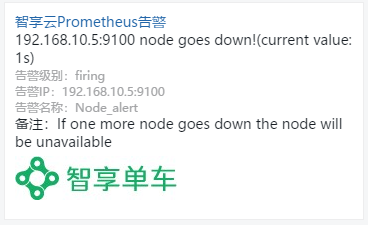
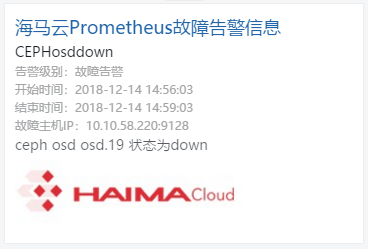
增加自定义配置选项

Changed region(s): [[0.0299, 0.0622, 0.9565, 0.6533], [0.0299, 0.6844, 0.6576, 0.9022]]

diff --git a/controllers/default.go b/controllers/default.go
@@ -9,6 +9,7 @@ import (
 	"log"
 	"net/http"
 	"strconv"
+	"time"
 )
 
 type MainController struct {
@@ -17,9 +18,9 @@ type MainController struct {
 
 type Labels struct{
 	Alertname string `json:"alertname"`
+	Instance string `json:"instance"`
 }
 type Annotations struct{
-	Message string `json:"message"`
 	Description string `json:"description"`
 	Summary string `json:"summary"`
 }
@@ -28,7 +29,6 @@ type Alerts struct {
 	Annotations Annotations `json:"annotations"`
 	StartsAt string `json:"startsAt"`
 	EndsAt string `json:"endsAt"`
-	GeneratorURL string `json:"generatorUrl"`
 }
 type Prometheus struct {
 	Status string
@@ -63,28 +63,37 @@ func (c *MainController) PrometheusAlert() {
 	log.Println(c.Data["json"])
 	c.ServeJSON()
 }
-
+func GetCSTtime(date string)(string)  {
+	T1:=date[0:10]
+	T2:=date[11:19]
+	T3:=T1+" "+T2
+	tm2, _ := time.Parse("2006-01-02 15:04:05", T3)
+	h, _ := time.ParseDuration("-1h")
+	tm3:=tm2.Add(-8*h)
+	tm:=tm3.Format("2006-01-02 15:04:05")
+	return tm
+}
 func PostToDingDingP(message Prometheus)(string)  {
 	Ddurl:=beego.AppConfig.String("ddurl")
 	Title:=beego.AppConfig.String("title")
 	Alerturl:=beego.AppConfig.String("alerturl")
 	Logourl:=beego.AppConfig.String("logourl")
-	Alertmessage:=""
-	switch {
-	case message.Alerts[0].Annotations.Message!="":
-		Alertmessage=message.Alerts[0].Annotations.Message
-	case message.Alerts[0].Annotations.Description!="":
-		Alertmessage=message.Alerts[0].Annotations.Description
-	case message.Alerts[0].Annotations.Summary!="":
-		Alertmessage=message.Alerts[0].Annotations.Summary
+	text:=""
+    titleend:=""
+	if message.Status=="resolved" {
+		text="## ["+Title+"云Prometheus故障恢复信息]("+Alerturl+")\n\n"+"#### "+message.Alerts[0].Labels.Alertname+"\n\n"+"###### 告警级别：故障恢复\n\n"+"###### 开始时间："+GetCSTtime(message.Alerts[0].StartsAt)+"\n\n"+"###### 结束时间："+GetCSTtime(message.Alerts[0].EndsAt)+"\n\n"+"###### 故障主机IP："+message.Alerts[0].Labels.Instance+"\n\n"+"##### "+message.Alerts[0].Annotations.Summary+"\n\n"+"!["+Title+"]("+Logourl+")"
+		titleend="云故障恢复信息"
+	}else {
+		text="## ["+Title+"云Prometheus故障告警信息]("+Alerturl+")\n\n"+"#### "+message.Alerts[0].Labels.Alertname+"\n\n"+"###### 告警级别：故障告警\n\n"+"###### 开始时间："+GetCSTtime(message.Alerts[0].StartsAt)+"\n\n"+"###### 结束时间："+GetCSTtime(message.Alerts[0].EndsAt)+"\n\n"+"###### 故障主机IP："+message.Alerts[0].Labels.Instance+"\n\n"+"##### "+message.Alerts[0].Annotations.Description+"\n\n"+"!["+Title+"]("+Logourl+")"
+		titleend="云故障告警信息"
 	}
-	text:="## ["+Title+"云告警Prometheus平台告警信息]("+Alerturl+")\n\n"+"#### "+message.Alerts[0].Labels.Alertname+"\n\n"+"###### 告警级别："+message.Status+"\n\n"+"###### 开始时间："+message.Alerts[0].StartsAt+"\n\n"+"###### 结束时间："+message.Alerts[0].EndsAt+"\n\n"+"`"+Alertmessage+"`\n\n"+"!["+Title+"]("+Logourl+")"
+
 	u := DDMessage{
 		Msgtype:"markdown",
 		Markdown: struct {
 			Title string `json:"title"`
 			Text  string `json:"text"`
-		}{Title: Title+"云告警平台告警信息", Text: text},
+		}{Title: Title+titleend, Text: text},
 		At: struct {
 			AtMobiles []string `json:"atMobiles"`
 			IsAtAll   bool `json:"isAtAll"`
@@ -146,13 +155,13 @@ func PostToDingDingG(message Graylog)(string)  {
 	Title:=beego.AppConfig.String("title")
 	Alerturl:=beego.AppConfig.String("alerturl")
 	Logourl:=beego.AppConfig.String("logourl")
-	text:="## ["+Title+"云告警Graylog平台告警信息]("+Alerturl+")\n\n"+"#### "+message.Check_result.Result_description+"\n\n"+"###### 告警名称："+message.Check_result.Triggered_condition.Title+"\n\n"+"###### 告警类型："+message.Check_result.Triggered_condition.Type+"\n\n"+"###### 开始时间："+message.Check_result.Triggered_at+" UTC\n\n"+"###### 持续时间："+strconv.Itoa(message.Check_result.Triggered_condition.Parameters.Time)+"\n\n"+"!["+Title+"]("+Logourl+")"
+	text:="## ["+Title+"云Graylog告警信息]("+Alerturl+")\n\n"+"#### "+message.Check_result.Result_description+"\n\n"+"###### 告警名称："+message.Check_result.Triggered_condition.Title+"\n\n"+"###### 告警类型："+message.Check_result.Triggered_condition.Type+"\n\n"+"###### 开始时间："+message.Check_result.Triggered_at+" UTC\n\n"+"###### 持续时间："+strconv.Itoa(message.Check_result.Triggered_condition.Parameters.Time)+"\n\n"+"!["+Title+"]("+Logourl+")"
 	u := DDMessage{
 		Msgtype:"markdown",
 		Markdown: struct {
 			Title string `json:"title"`
 			Text  string `json:"text"`
-		}{Title: Title+"云告警平台告警信息", Text: text},
+		}{Title: Title+"云告警信息", Text: text},
 		At: struct {
 			AtMobiles []string `json:"atMobiles"`
 			IsAtAll   bool `json:"isAtAll"`

diff --git a/README.MD b/README.MD
@@ -30,13 +30,13 @@ webhook地址为： http://[程序部署的IP:端口]/prometheus/alert 即可.
 groups:
 - name: node_alert
   rules:
-  - alert: Node_CPU_Alert
+  - alert: 主机CPU监控
     expr: node_load1 > 3
     labels:
-      node: alert
+      severity: warning
     annotations:
-      description: If this value is high, it shows that CPU is very complex and very high !  #描述告警信息
-      summary: "{{ $labels.instance }} node CPU load goes too high !(current value: {{ $value }}s)"  #告警的实际内容
+      description: If this value is high, it shows that CPU is very complex and very high !  #告警信息
+      summary: "{{ $labels.instance }} node CPU load is ok !(current value: {{ $value }}s)"  #告警恢复信息
 ```
 --------------------------------------      
 
